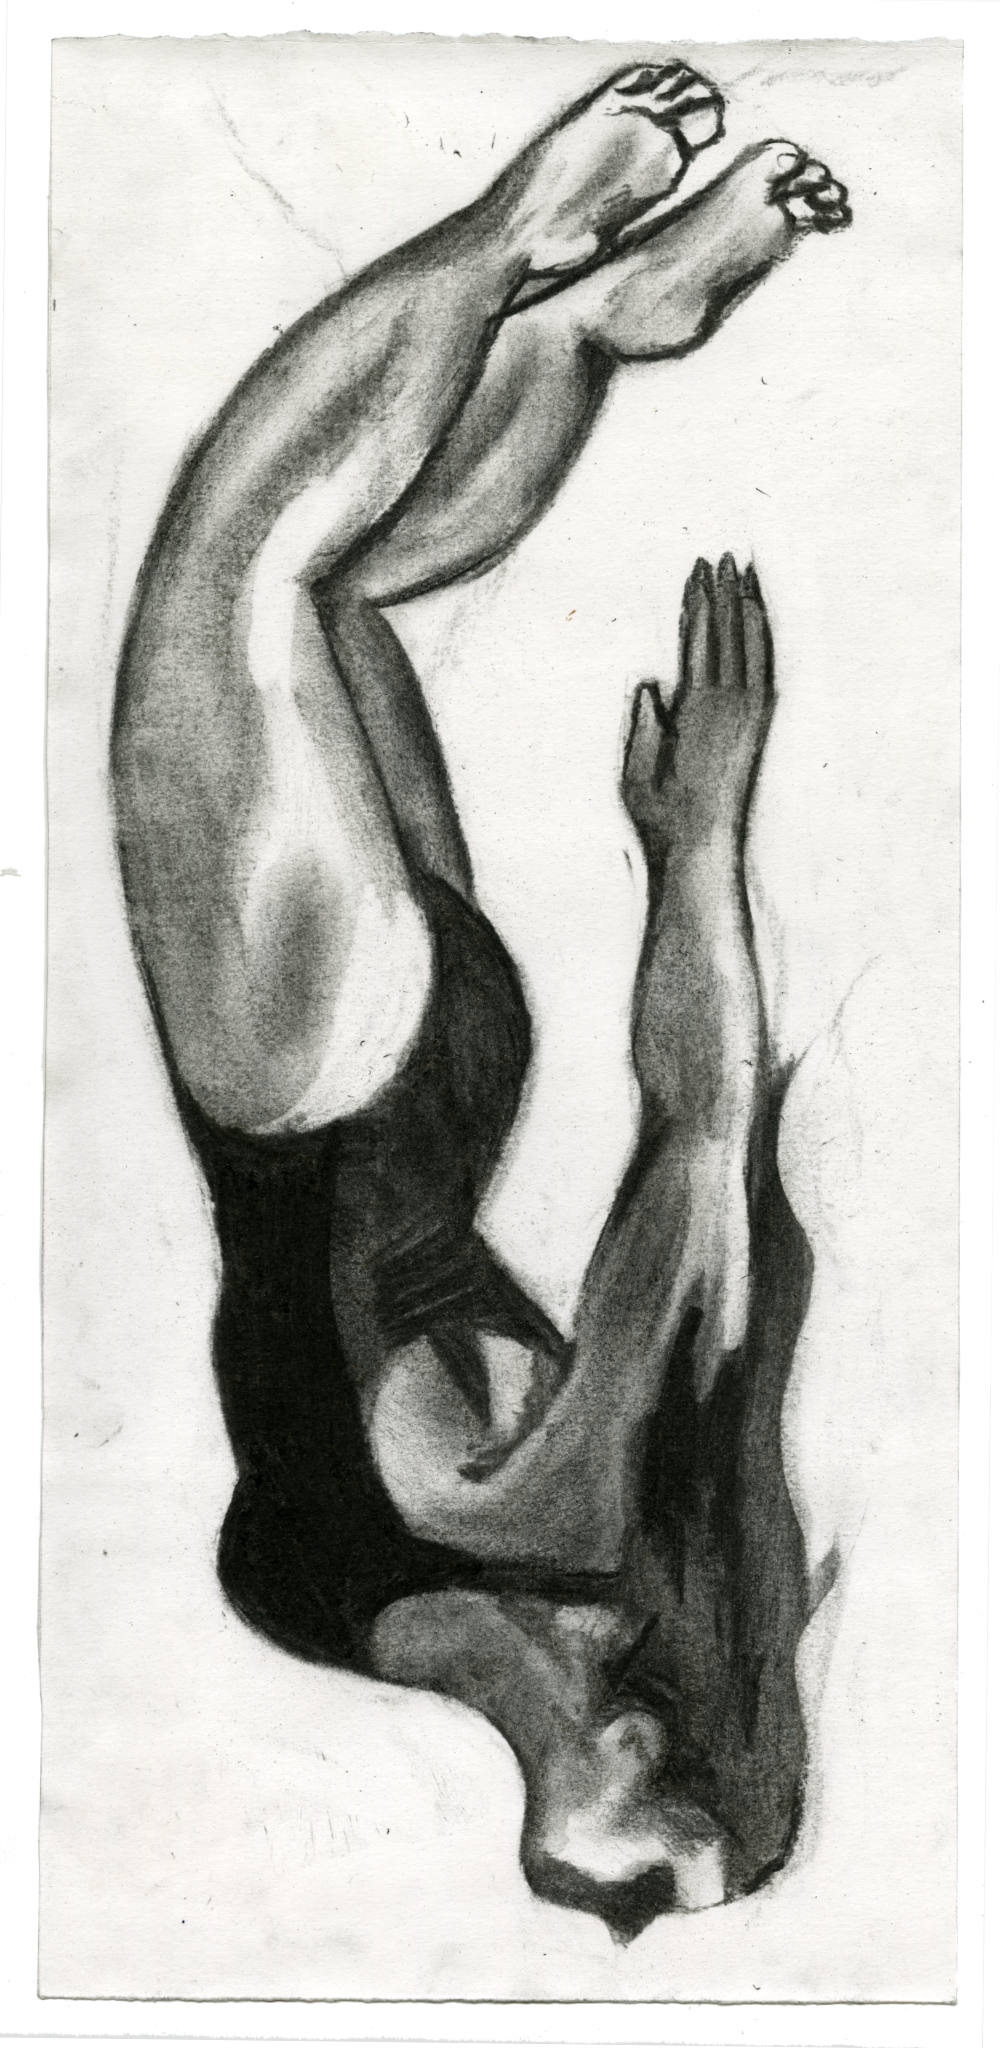
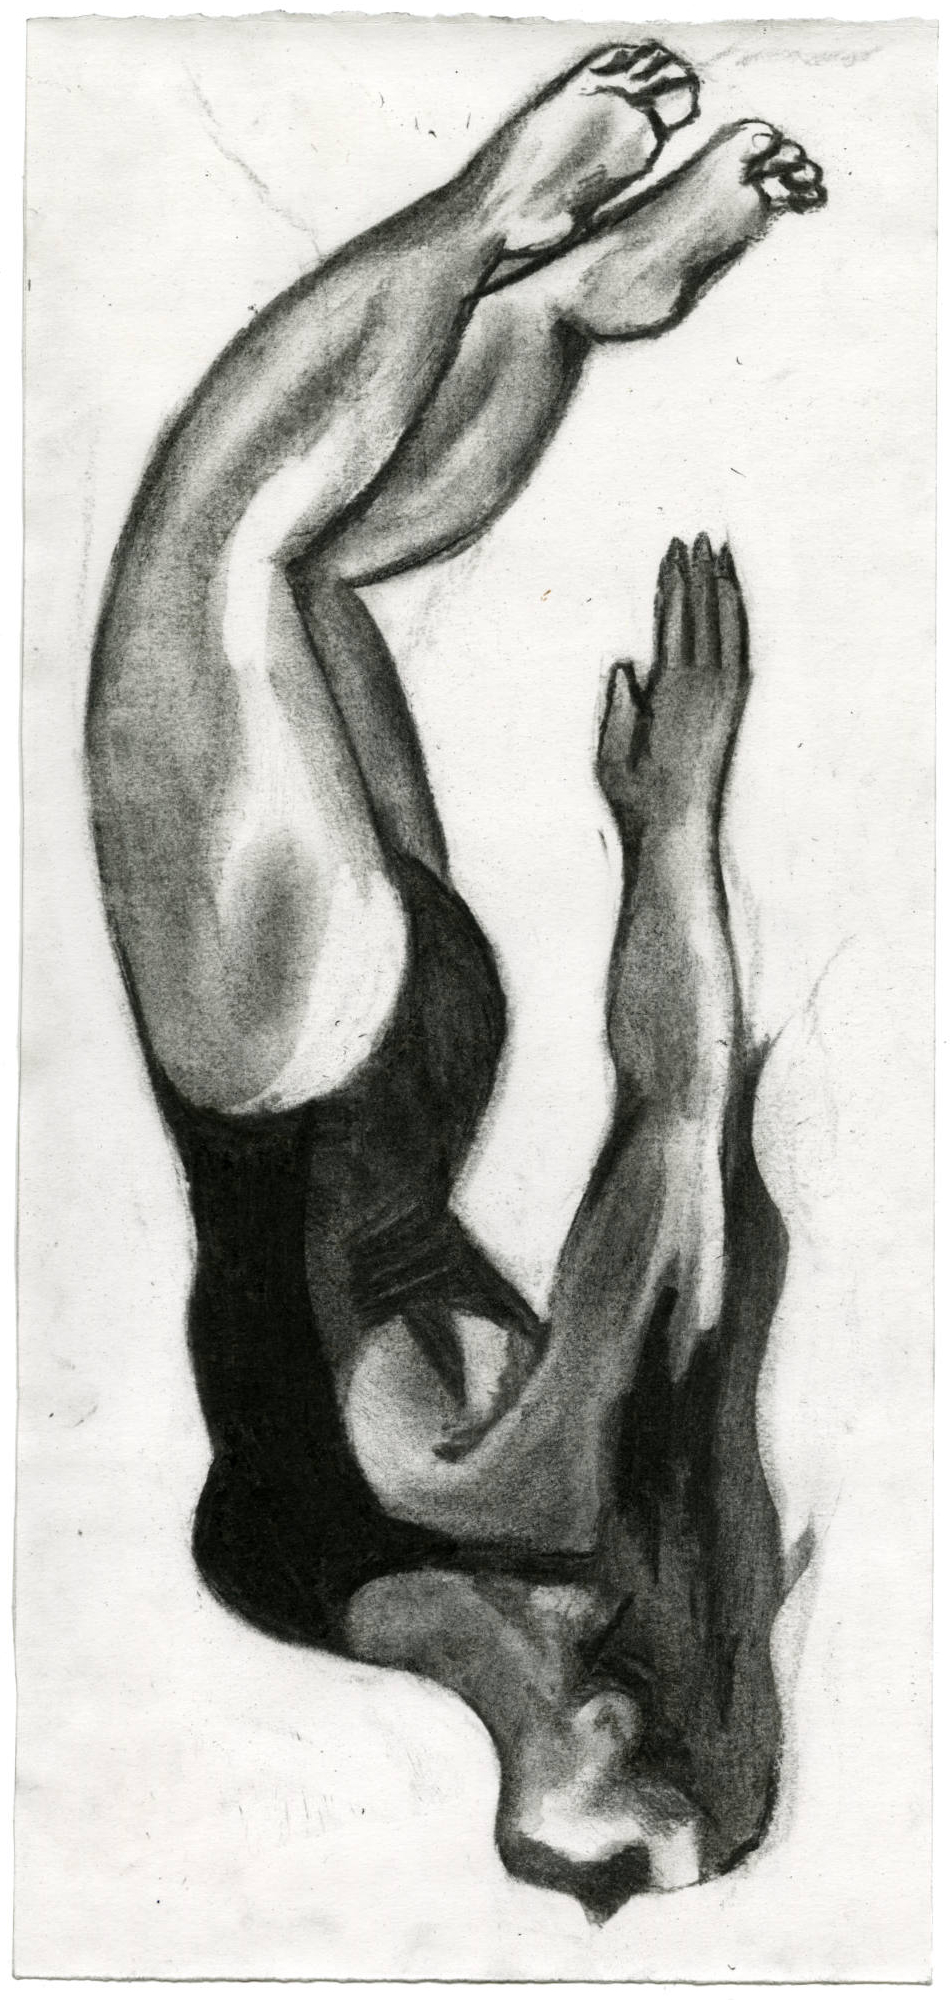
changed assets

diff --git a/work/people.html b/work/people.html
@@ -35,7 +35,7 @@
             {src: "../assets/people/Moonlit-Singer-Inkdrawing-TildaRose.jpg", description: "the singer"},
             {src: "../assets/animations/WSOY-BookCover-Animation.gif", description: "wsoy"},
             {src: "../assets/featured-inside/Bugtown/Come-To-Bugtown-InkDrawing-TildaRose.jpg", description: "come to bugtown", link: "../projects/bugtown.html"}, 
-			{src: "../assets/black_and_white/Diver-Swimmer-Charcoal-Sketch-TildaRose.jpg", description: "the diver"},
+			{src: "../assets/people/Diver-Swimmer-Charcoal-Sketch-TildaRose.jpg", description: "the diver"},
             {src: "../assets/people/Townes-Van-Zandt-Billboard-TildaRose.jpg", description: "townes van zandt | billboard"},
             {src: "../assets/animations/Rowboat-Animation-TildaRose-Transparent.gif", description: "rowboating"},
 			{src: "../assets/featured/CatNap-Animation-Gouache-Small-TildaRose.gif", description: "howdy! animation"},
